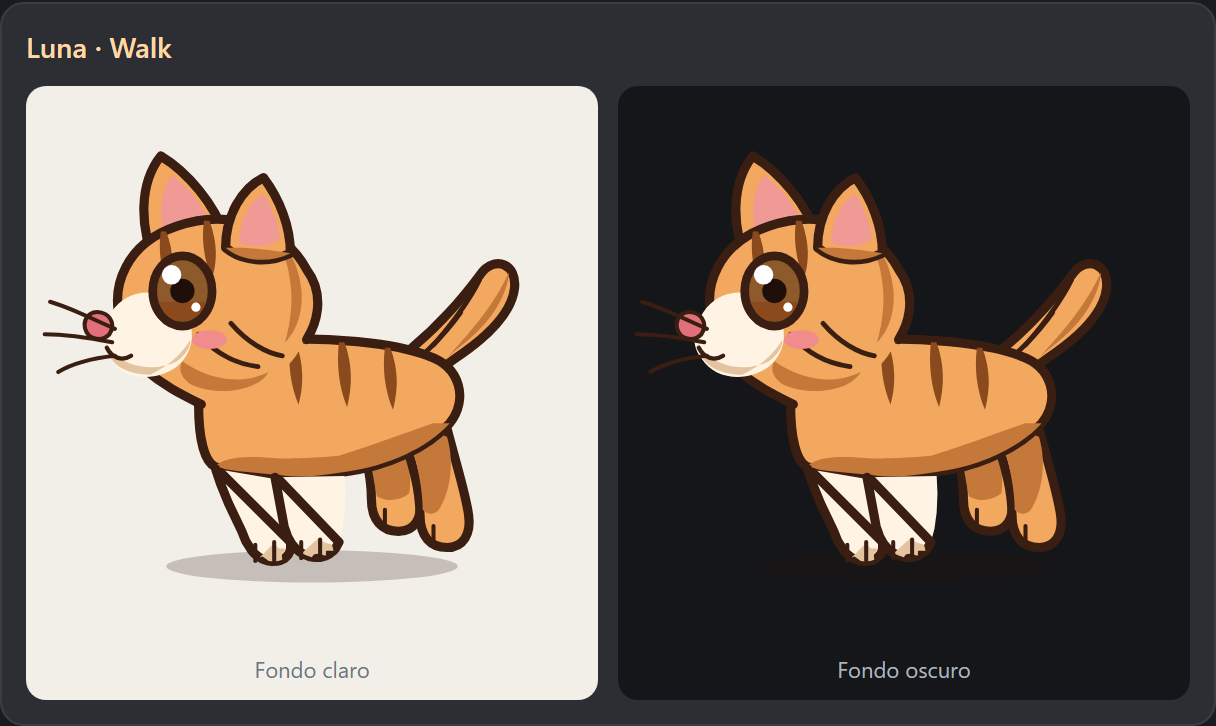
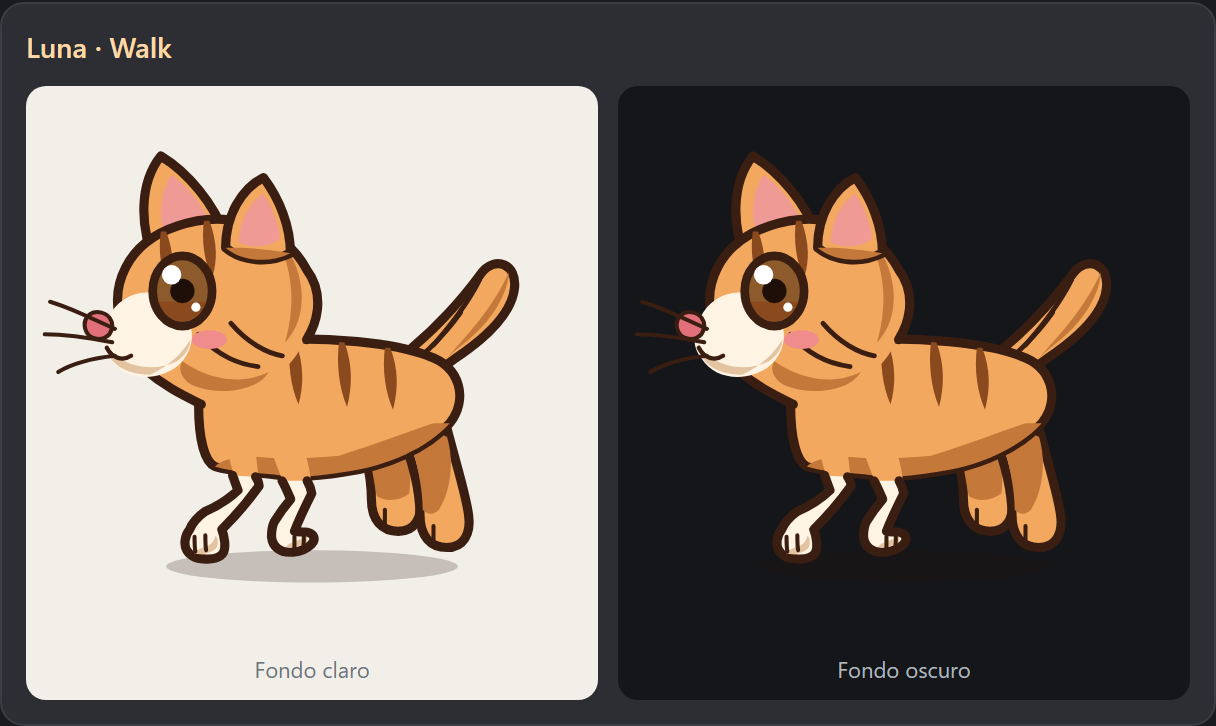
feat(corregir-la-pose-de-caminar-de): Paso 1 - Patas delanteras de Luna en zancuda: en test/pet-as

Changed region(s): [[0.625, 0.6061, 0.7812, 0.7879], [0.125, 0.6061, 0.2812, 0.7879]]

diff --git a/test/pet-assets.test.js b/test/pet-assets.test.js
@@ -1850,3 +1850,190 @@ test('README de capturas: indexa las 12 capturas y documenta el comando para reg
   assert.match(md, /python\s+test\/preview\/pet-poses-capture\.py/,
     'el README debe documentar el comando para regenerar las capturas');
 });
+
+// =============================================================
+// PASO 1 — Geometria de las patas delanteras de la pose walk de Luna
+// Plan: docs/plans/2026-10-30-pose-caminar-luna.md (paso 1, §4 T1-T4)
+//
+// Las 4 metricas se derivan de la geometria REAL del SVG (no de literales),
+// asi que un redibujo que vuelva a cruzar las patas, a dejar el hombro
+// fuera del pecho o a convertir la pata en un palo recto cae en rojo.
+//
+//  T1  las patas van separadas en zancuda (aire >= 2 px, solape <= 8%)
+//  T2  los contornos de tinta de las dos patas no se cruzan (no hay X)
+//  T3  el hombro queda enterrado >= 6 px dentro de la silueta del torso
+//  T4  el eje de la pata se desvía >= 3 px de la recta hombro-mano (codo)
+//      y la mano es >= 1.25x mas ancha que el antebrazo
+// =============================================================
+
+/** BBox conjunto de un conjunto de poligonos. */
+function polysBBox(polys) {
+  const box = { minX: Infinity, minY: Infinity, maxX: -Infinity, maxY: -Infinity };
+  for (const poly of polys) {
+    for (const p of poly) {
+      if (p[0] < box.minX) box.minX = p[0];
+      if (p[0] > box.maxX) box.maxX = p[0];
+      if (p[1] < box.minY) box.minY = p[1];
+      if (p[1] > box.maxY) box.maxY = p[1];
+    }
+  }
+  return box;
+}
+
+/** Area total (px2) de un conjunto de poligonos. */
+function polysArea(polys) {
+  return polys.reduce((acc, poly) => acc + Math.abs(celGeo.polygonArea(poly)), 0);
+}
+
+/** Filas horizontales de una silueta rellena: y -> { minX, maxX }. */
+function silhouetteRows(polys, step = 0.5) {
+  const rows = new Map();
+  const add = (x, y) => {
+    const key = Math.round(y * 2) / 2;
+    const row = rows.get(key);
+    if (!row) rows.set(key, { minX: x, maxX: x, y: key });
+    else {
+      if (x < row.minX) row.minX = x;
+      if (x > row.maxX) row.maxX = x;
+    }
+  };
+  for (const poly of polys) {
+    for (const p of celGeo.sampleBoundary(poly, step)) add(p[0], p[1]);
+    for (const p of celGeo.sampleInterior(poly, step)) add(p[0], p[1]);
+  }
+  return [...rows.values()].sort((a, b) => a.y - b.y);
+}
+
+/** Orientacion de un trio de puntos (1 antihorario, -1 horario, 0 colineal). */
+function orient(ax, ay, bx, by, cx, cy) {
+  const v = (bx - ax) * (cy - ay) - (by - ay) * (cx - ax);
+  if (v > 1e-9) return 1;
+  if (v < -1e-9) return -1;
+  return 0;
+}
+
+/** Cruce PROPIO de dos segmentos (el roce o el contacto no cuentan). */
+function segmentsCross(p1, p2, p3, p4) {
+  const d1 = orient(p3[0], p3[1], p4[0], p4[1], p1[0], p1[1]);
+  const d2 = orient(p3[0], p3[1], p4[0], p4[1], p2[0], p2[1]);
+  const d3 = orient(p1[0], p1[1], p2[0], p2[1], p3[0], p3[1]);
+  const d4 = orient(p1[0], p1[1], p2[0], p2[1], p4[0], p4[1]);
+  return d1 * d2 < 0 && d3 * d4 < 0;
+}
+
+/** Numero de cruces propios entre dos conjuntos de polilineas cerradas. */
+function countCrossings(polysA, polysB) {
+  const segs = (polys) => polys.map((poly) => poly.map((p, i) => [p, poly[(i + 1) % poly.length]]));
+  const a = segs(polysA);
+  const b = segs(polysB);
+  let n = 0;
+  for (const segA of a) {
+    for (const segB of b) {
+      if (segmentsCross(segA[0], segA[1], segB[0], segB[1])) n++;
+    }
+  }
+  return n;
+}
+
+test('pose walk de Luna: las patas delanteras van separadas en zancuda, sin cruzarse', () => {
+  const body = massOutlinePolys(catWalkSVG, 'pet-body');
+  const left = massFilledPolys(catWalkSVG, 'left-paw');
+  const right = massFilledPolys(catWalkSVG, 'right-paw');
+  assert.ok(body.length > 0, 'no se encontro la silueta del torso');
+  assert.ok(left.length > 0, 'no se encontro el relleno de .left-paw');
+  assert.ok(right.length > 0, 'no se encontro el relleno de .right-paw');
+
+  // Por debajo de la linea del vientre las dos patas no se tocan.
+  const yVientre = polysBBox(body).maxY;
+  const below = (polys) => polys.flatMap((poly) => poly).filter((p) => p[1] >= yVientre);
+  const leftBelow = below(left);
+  const rightBelow = below(right);
+  assert.ok(leftBelow.length > 0 && rightBelow.length > 0,
+    'las patas no tienen geometria por debajo del vientre');
+  const maxXLeft = Math.max(...leftBelow.map((p) => p[0]));
+  const minXRight = Math.min(...rightBelow.map((p) => p[0]));
+  const aire = minXRight - maxXLeft;
+  assert.ok(aire >= 2,
+    `las patas delanteras se solapan por debajo del vientre: ` +
+    `.left-paw llega a x=${maxXLeft.toFixed(1)} y .right-paw arranca en x=${minXRight.toFixed(1)} ` +
+    `(aire ${aire.toFixed(1)} px, minimo 2 px): no hay zancuda`);
+
+  // El area de solape es despreciable.
+  const overlap = celGeo.overlapArea(left, right, 0.25);
+  const minArea = Math.min(polysArea(left), polysArea(right));
+  assert.ok(overlap <= 0.08 * minArea,
+    `las patas delanteras se solapan ${overlap.toFixed(1)} px2 ` +
+    `(${(100 * overlap / minArea).toFixed(1)}% de la pata mas chica, maximo 8%)`);
+
+  // Los contornos de tinta no se cruzan entre si (no se lee una X).
+  const crossings = countCrossings(
+    massOutlinePolys(catWalkSVG, 'left-paw'),
+    massOutlinePolys(catWalkSVG, 'right-paw')
+  );
+  assert.equal(crossings, 0,
+    `los contornos de las patas delanteras se cruzan ${crossings} veces: se lee una X`);
+});
+
+test('pose walk de Luna: cada pata delantera nace del pecho (hombro enterrado)', () => {
+  const MIN_DEPTH = 6;
+  const body = massOutlinePolys(catWalkSVG, 'pet-body');
+  assert.ok(body.length > 0, 'no se encontro la silueta del torso');
+  for (const cls of ['left-paw', 'right-paw']) {
+    const paw = massFilledPolys(catWalkSVG, cls);
+    assert.ok(paw.length > 0, `no se encontro el relleno de .${cls}`);
+    let depth = 0;
+    const points = [];
+    for (const poly of paw) {
+      for (const p of poly) points.push(p);
+      for (const p of celGeo.sampleInterior(poly, 0.5)) points.push(p);
+    }
+    for (const p of points) {
+      if (!body.some((b) => celGeo.pointInPolygon(b, p[0], p[1]))) continue;
+      let d = Infinity;
+      for (const b of body) d = Math.min(d, celGeo.distanceToPolygonEdge(b, p[0], p[1]));
+      depth = Math.max(depth, d);
+    }
+    assert.ok(depth >= MIN_DEPTH,
+      `.${cls} solo se hunde ${depth.toFixed(1)} px dentro del pecho ` +
+      `(minimo ${MIN_DEPTH} px): la pata se lee pegada al cuerpo`);
+  }
+});
+
+test('pose walk de Luna: cada pata tiene codo y mano (no es un palo recto)', () => {
+  const MIN_ELBOW = 3;
+  const MIN_HAND = 1.25;
+  for (const cls of ['left-paw', 'right-paw']) {
+    const paw = massFilledPolys(catWalkSVG, cls);
+    assert.ok(paw.length > 0, `no se encontro el relleno de .${cls}`);
+    const rows = silhouetteRows(paw);
+    assert.ok(rows.length >= 4, `.${cls} es demasiado plano para medirlo`);
+    const top = rows[0];
+    const bottom = rows[rows.length - 1];
+    const mid = rows[Math.floor(rows.length / 2)];
+    const shoulder = { x: (top.minX + top.maxX) / 2, y: top.y };
+    const hand = { x: (bottom.minX + bottom.maxX) / 2, y: bottom.y };
+
+    // Desvio maximo del eje de la pata respecto de la recta hombro-mano.
+    const vx = hand.x - shoulder.x;
+    const vy = hand.y - shoulder.y;
+    const len = Math.hypot(vx, vy) || 1;
+    let dev = 0;
+    for (const row of rows) {
+      const cx = (row.minX + row.maxX) / 2;
+      const d = Math.abs((cx - shoulder.x) * vy - (row.y - shoulder.y) * vx) / len;
+      dev = Math.max(dev, d);
+    }
+    assert.ok(dev >= MIN_ELBOW,
+      `.${cls} es un palo recto: su eje se desvía ${dev.toFixed(1)} px de la recta ` +
+      `hombro-mano (minimo ${MIN_ELBOW} px): no se ve el codo`);
+
+    // La mano (parte baja) es mas ancha que el antebrazo (parte media).
+    const handWidth = Math.max(...rows
+      .filter((row) => row.y >= bottom.y - (bottom.y - top.y) * 0.2)
+      .map((row) => row.maxX - row.minX));
+    const armWidth = mid.maxX - mid.minX;
+    assert.ok(handWidth >= MIN_HAND * armWidth,
+      `.${cls} no tiene mano: la mano mide ${handWidth.toFixed(1)} px y el antebrazo ` +
+      `${armWidth.toFixed(1)} px (se exige >= ${MIN_HAND}x)`);
+  }
+});

diff --git a/src/assets/cat.js b/src/assets/cat.js
@@ -192,31 +192,82 @@ const catWalkSVG = `<svg id="pet-svg" viewBox="0 0 200 200" xmlns="http://www.w3
     <path d="M 129,91 C 132,99 132,106 130,114 C 127,107 126,99 127,91 Z" fill="#8A4A1E" />
   </g>
 
-  <g class="left-paw" style="transform-origin: 74px 138px;">
+  <g class="left-paw" style="transform-origin: 73px 126px;">
     <path class="cel-base"
-          d="M 86.3,139.6 L 89.3,153.1 L 92,163 L 92.1,164.8 L 91.7,166.8 L 91.2,167.7 L 90.3,168.8 L 89.4,169.3 L 88,169.9 L 85.8,170.2 L 83.4,169.9 L 80.6,168.7 L 78.3,166.8 L 76.4,164.3 L 75.1,161.8 L 74,159 L 68.3,146.6 L 65.8,140.6 L 64.3,135.9"
-          fill="#FFF4E4" />
+          d="M 68.1,127
+             C 69.1,131 70.8,137.6 72.6,143.8
+             C 68.8,147.4 64.4,150 60.4,151.7
+             C 58,153.4 55.8,155.6 54.6,158.5
+             C 52.9,160.6 52.4,163.9 53.6,166
+             C 55,168.4 58,169.4 61.5,169.3
+             C 64.4,169.2 66.7,168.3 67.4,166.4
+             C 68,164.7 67.7,161.2 66.6,158.3
+             C 71.4,153.6 76.2,148 80.4,142.2
+             C 80,135.5 79.2,129 77.9,125
+             C 76.8,123 75,122 73,122
+             C 71,122 69.5,124 68.1,127 Z"
+          fill="#F2A85E" />
     <path class="cel-outline"
-          d="M 66.2,137.2 L 92,163 L 92.1,164.8 L 91.9,166.3 L 91.2,167.7 L 89.9,169 L 88.5,169.7 L 87,170.1 L 85.2,170.2 L 83.4,169.9 L 81.7,169.3 L 80.1,168.4 L 78.7,167.3 L 77.5,165.9 L 75.4,162.5 L 74,159 L 69.1,148.7 L 66.2,141.6 L 64.3,135.9"
+          d="M 70.6,138.3
+             C 71.4,140.6 72,142.4 72.6,143.8
+             C 68.8,147.4 64.4,150 60.4,151.7
+             C 58,153.4 55.8,155.6 54.6,158.5
+             C 52.9,160.6 52.4,163.9 53.6,166
+             C 55,168.4 58,169.4 61.5,169.3
+             C 64.4,169.2 66.7,168.3 67.4,166.4
+             C 68,164.7 67.7,161.2 66.6,158.3
+             C 71.4,153.6 76.2,148 80.4,142.2
+             C 80.2,140.6 79.7,139.5 79.1,138.8"
           fill="#FFF4E4" stroke="#3A1E12" stroke-width="3.4" stroke-linejoin="round" stroke-linecap="round" />
     <path class="cel-shadow"
-          d="M 90.2,165.5 L 89.7,166.7 L 88.8,167.7 L 89,169.5 L 87.5,170 L 85.8,170.2 L 84,170 L 81.7,168.3 L 80.6,168.7 L 86.1,163.2 L 86.5,164.2 L 87.6,165.3 L 90.2,165.5"
+          d="M 64.3,160.5
+             C 65.4,162 65.4,164 64.4,165.4
+             C 62.2,167.4 58.8,168 56.2,167
+             C 57.4,165.9 59,165 60.8,164.6
+             C 62.7,164.1 63.8,162.7 64.3,160.5 Z"
           fill="#E4C4A0" />
-    <path d="M 79,164 C 79,167 79,169 79,170" fill="none" stroke="#3A1E12" stroke-width="1.5" stroke-linecap="round" />
-    <path d="M 86,163 C 86,166 86,168 86,170" fill="none" stroke="#3A1E12" stroke-width="1.5" stroke-linecap="round" />
+    <path d="M 56.5,161 C 56.5,163 56.5,165 56.8,166.5" fill="none" stroke="#3A1E12" stroke-width="1.5" stroke-linecap="round" />
+    <path d="M 60.5,160.5 C 60.5,162.5 60.5,164.5 60.8,166" fill="none" stroke="#3A1E12" stroke-width="1.5" stroke-linecap="round" />
   </g>
-  <g class="right-paw" style="transform-origin: 98px 138px;">
+  <g class="right-paw" style="transform-origin: 89px 124px;">
     <path class="cel-base"
-          d="M 112.1,138.5 L 112.4,144.9 L 112.1,151.9 L 111.3,158 L 110,163 L 108.8,165.2 L 107.1,167 L 105.1,168.1 L 102.3,168.8 L 99.2,168.4 L 97.4,167.7 L 95.7,166.8 L 93.2,164.5 L 91.3,161.6 L 90.4,159.6 L 89.5,156.5 L 86.3,139"
-          fill="#FFF4E4" />
+          d="M 84.2,125.3
+             C 85,130.5 88.3,138.5 92.1,147.1
+             C 89.6,150 87.4,153.2 86,155.5
+             C 85.2,157.2 85,159.2 85,161
+             C 85.2,163 85.9,164.3 87.2,165.3
+             C 88.7,166.5 90.9,166.9 93,166.7
+             C 95.6,166.5 98,165.6 99.8,163.8
+             C 100.9,162.8 101.2,161.6 100.2,160.3
+             C 99.2,159.2 97.6,159.2 95.8,159.2
+             C 95,159.1 94.2,159 93.5,159
+             C 95.2,154.5 97.6,149.6 99.9,145
+             C 99.9,138 98,128.5 93.8,122.7
+             C 90.5,121.2 86,122 84.2,125.3 Z"
+          fill="#F2A85E" />
     <path class="cel-outline"
-          d="M 87.7,139.8 L 110,163 L 108.8,165.2 L 108,166.2 L 106.6,167.3 L 105.1,168.1 L 102.9,168.7 L 101.1,168.7 L 99.2,168.4 L 97.4,167.7 L 95.7,166.8 L 94.1,165.5 L 92.4,163.5 L 91,161 L 89.7,157.3 L 86.3,139"
+          d="M 88.9,140.3
+             C 90,142.2 91,144.6 92.1,147.1
+             C 89.6,150 87.4,153.2 86,155.5
+             C 85.2,157.2 85,159.2 85,161
+             C 85.2,163 85.9,164.3 87.2,165.3
+             C 88.7,166.5 90.9,166.9 93,166.7
+             C 95.6,166.5 98,165.6 99.8,163.8
+             C 100.9,162.8 101.2,161.6 100.2,160.3
+             C 99.2,159.2 97.6,159.2 95.8,159.2
+             C 95,159.1 94.2,159 93.5,159
+             C 95.2,154.5 97.6,149.6 99.9,145
+             C 99.7,143.6 99.1,141.9 98.2,140.3"
           fill="#FFF4E4" stroke="#3A1E12" stroke-width="3.4" stroke-linejoin="round" stroke-linecap="round" />
     <path class="cel-shadow"
-          d="M 107.4,163.9 L 108,166.2 L 105.2,166.2 L 105.1,168.1 L 102.4,167.3 L 100.8,167.5 L 99.9,168.6 L 98,168 L 96.2,167.1 L 102.2,161.7 L 104.9,163.2 L 107.4,163.9"
+          d="M 97.6,160.6
+             C 98.5,161.5 98.5,162.6 97.5,163.4
+             C 95.6,164.7 92.8,165.2 90.3,164.7
+             C 91.2,163.8 92.4,163.1 93.9,162.7
+             C 95.7,162.2 96.9,161.6 97.6,160.6 Z"
           fill="#E4C4A0" />
-    <path d="M 96,163 C 96,166 96,168 96,169" fill="none" stroke="#3A1E12" stroke-width="1.5" stroke-linecap="round" />
-    <path d="M 103,162 C 103,165 103,167 103,168" fill="none" stroke="#3A1E12" stroke-width="1.5" stroke-linecap="round" />
+    <path d="M 93.5,161 C 93.5,162.5 93.5,164 93.5,165" fill="none" stroke="#3A1E12" stroke-width="1.5" stroke-linecap="round" />
+    <path d="M 97,160.5 C 97,162 97,163.5 96.8,164.5" fill="none" stroke="#3A1E12" stroke-width="1.5" stroke-linecap="round" />
   </g>
 
   <g class="pet-head anim-breath" style="transform-origin: 70px 98px; transform: translateY(0px) rotate(0deg);">

diff --git a/src/styles/animations.css b/src/styles/animations.css
@@ -140,7 +140,7 @@
 }
 .cat-walk .left-paw {
   animation: catWalkSwingRight 0.65s infinite ease-in-out;
-  transform-origin: 74px 138px;
+  transform-origin: 73px 126px;
 }
 .cat-walk .back-foot-right {
   animation: catWalkSwingRight 0.65s infinite ease-in-out;
@@ -148,7 +148,7 @@
 }
 .cat-walk .right-paw {
   animation: catWalkSwingLeft 0.65s infinite ease-in-out;
-  transform-origin: 98px 138px;
+  transform-origin: 89px 124px;
 }
 .cat-walk .pet-body { transform-origin: 104px 116px; }
 .cat-walk .pet-head { transform-origin: 70px 98px; }
